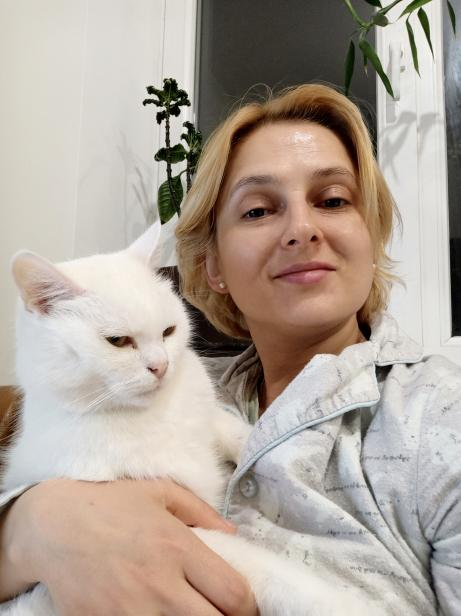
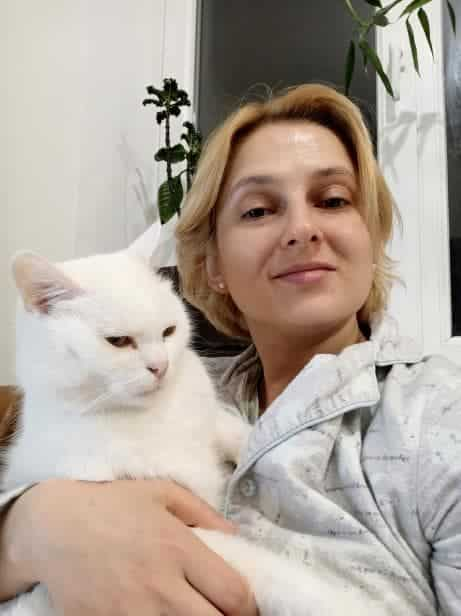
оптимизирует фото
Оптимизировала фото и убрала рывки скролла

Changed region(s): [[0.3037, 0.1234, 0.4252, 0.3084], [0.82, 0.0, 0.9111, 0.0308], [0.82, 0.1234, 0.8503, 0.1542]]

diff --git a/src/components/developer-card/developers-list.js b/src/components/developer-card/developers-list.js
@@ -10,9 +10,10 @@ const refs = getRefs();
 refs.developersLink.addEventListener('click', renderDevelopersList);
 
 function renderDevelopersList() {
-  clearGallery();
+  window.scrollTo(0, 0);
   clearPagList();
-  refs.cardList.insertAdjacentHTML('afterbegin', devCardTmpl(developers));
+  refs.cardList.innerHTML = devCardTmpl(developers)
+  // refs.cardList.insertAdjacentHTML('afterbegin', devCardTmpl(developers));
   refs.cardList.removeEventListener('click', onCloseModal);
   refs.cardList.removeEventListener('click', onClickCard);
 

diff --git a/src/index.html b/src/index.html
@@ -334,6 +334,7 @@
           </form>
         </div>
       </div>
+      <!-- <img src="./images/dev-card-foto/Stulkivska-foto.jpg" alt="" /> -->
     </main>
     <footer>
       <div class="container">
